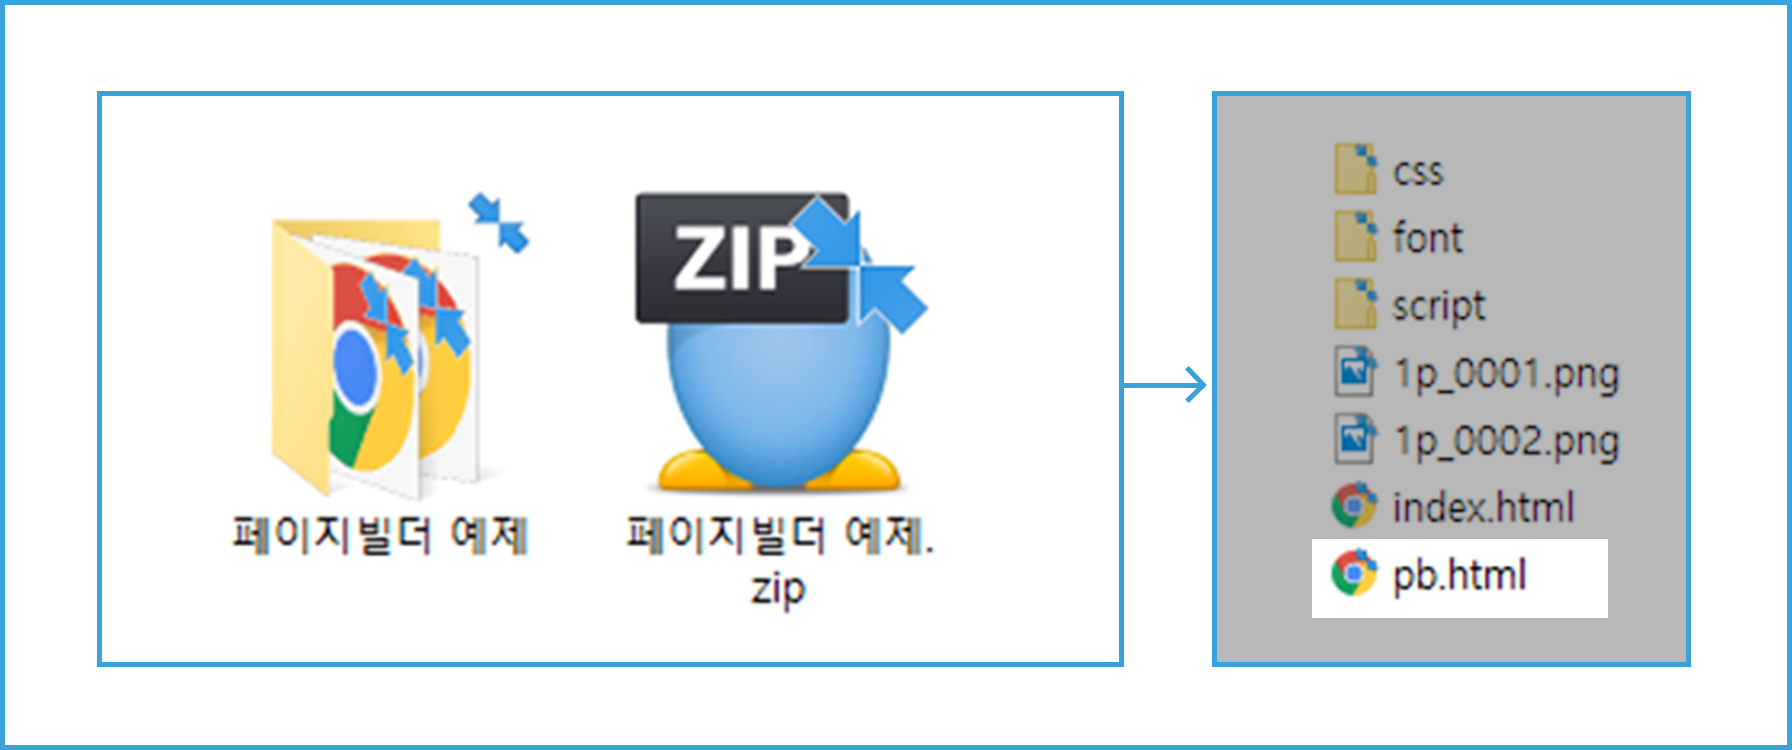
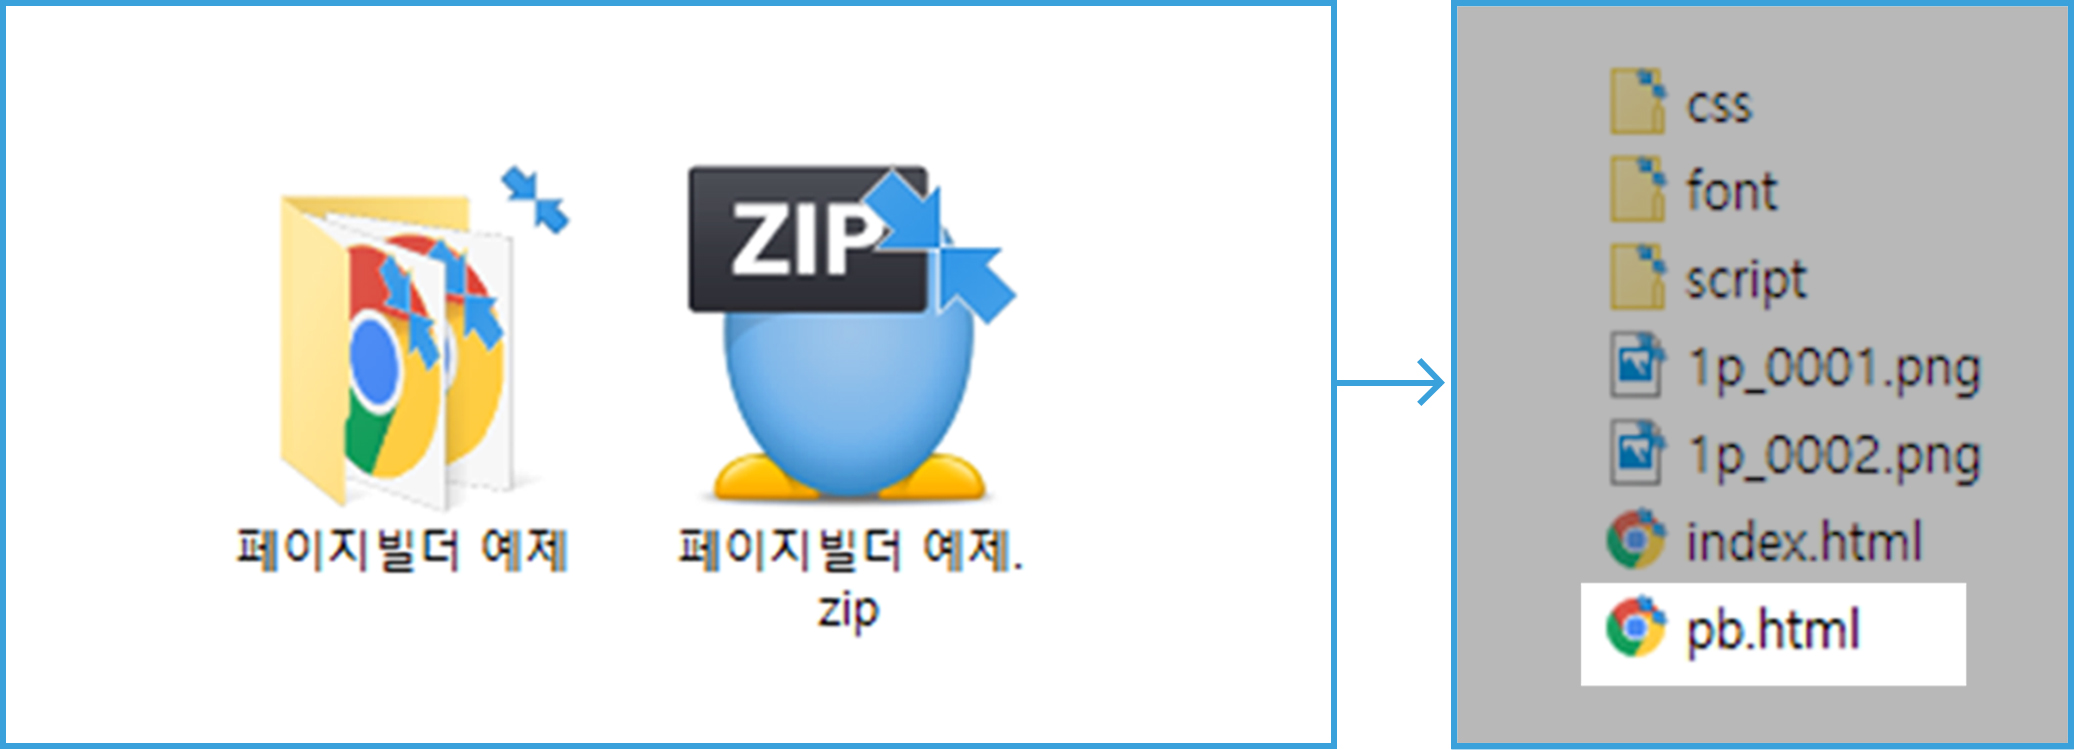
0326 문희수정

diff --git a/3. 작업 영역 살펴보기.md b/3. 작업 영역 살펴보기.md
@@ -12,7 +12,7 @@
 
 ### ① 빠른 실행 도구 모음
 
-<img src='./figure/03-inter-2.jpg' width="500">
+<img src='./figure/03-inter-2.jpg' width="800">
 
 빠른 실행 도구 모음은 화면 최상단에 위치합니다. 
 빠른 실행 도구 모음에는 저장, 실행 복귀, 실행 취소, 미리보기, 파일 불러오기 같은 사용자가 자주 사용하는 도구가 있습니다. 
@@ -26,7 +26,7 @@
 
 ### ③ 페이지 패널
 
-<img src='./figure/03-inter-4.jpg' width="400">
+<img src='./figure/03-inter-4.jpg' width="300">
 
 페이지 패널에서는 페이지 윤곽이 보이는 썸네일 이미지의 목록을 볼 수 있습니다.
 드래그로 페이지 순서를 재배치할 수 있으며, 페이지를 추가하거나 삭제할 수 있습니다. 
@@ -34,7 +34,7 @@
 
 ### ④ 레이어 패널
 
-<img src='./figure/03-inter-5.jpg' width="400">
+<img src='./figure/03-inter-5.jpg' width="300">
 
 레이어 패널에서는 레이어를 편리하게 구성하고 관리할 수 있습니다. 
 페이지별 레이어 목록 확인과 레이어 추가, 삭제를 할 수 있습니다. 또한, 앞의 눈 아이콘을 클릭하면 작업창에서 레이어를 숨기거나 보이게 할 수 있고, 
@@ -113,7 +113,7 @@ PDF가져오기 메뉴에서는 pdf 파일을 불러올 수 있습니다.
 가져온 페이지는 페이지빌더의 개별 페이지에 배치됩니다.
 (이미지 형태로 가져오므로 PDF 객체의 편집은 불가능합니다)
 
-<img src='./figure/03-3.jpg' width="500">
+<img src='./figure/03-3.jpg' width="1200">
 
 ### ⑩ 내보내기
 
